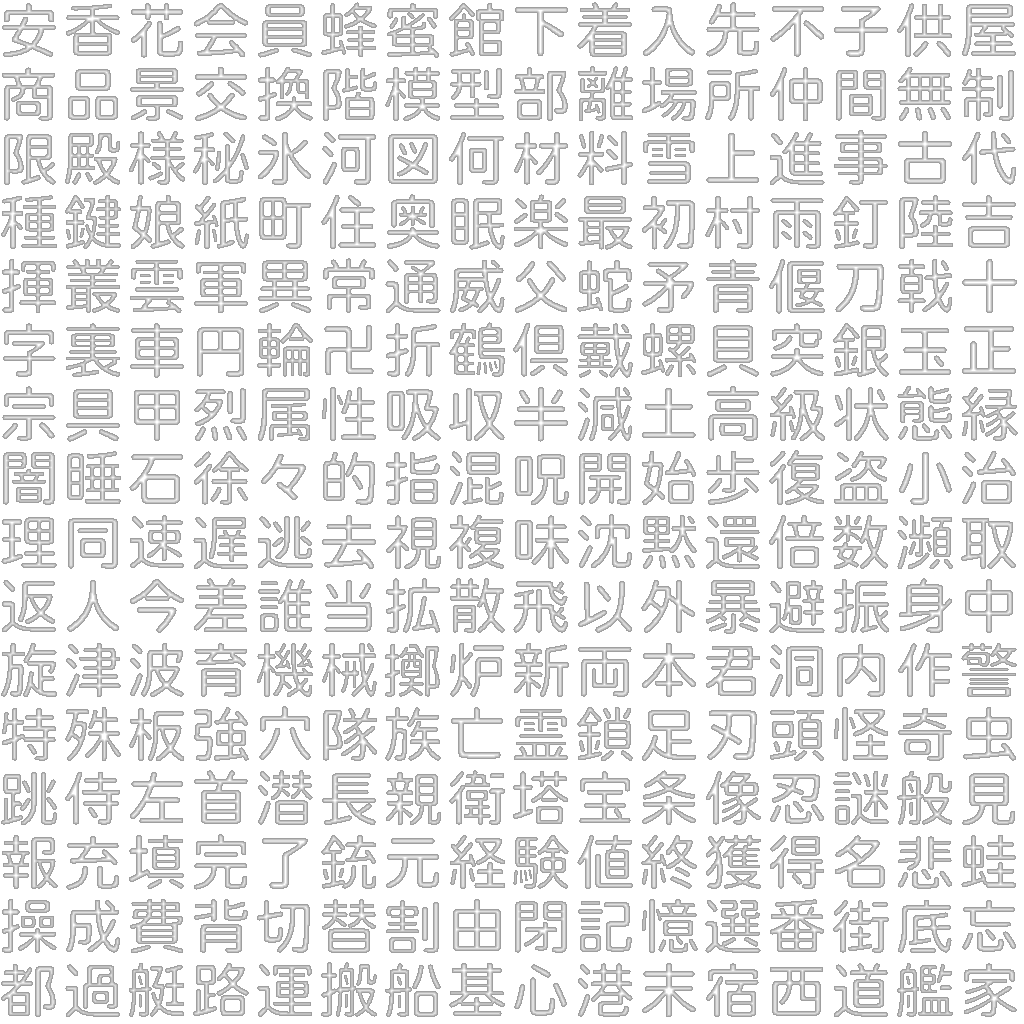
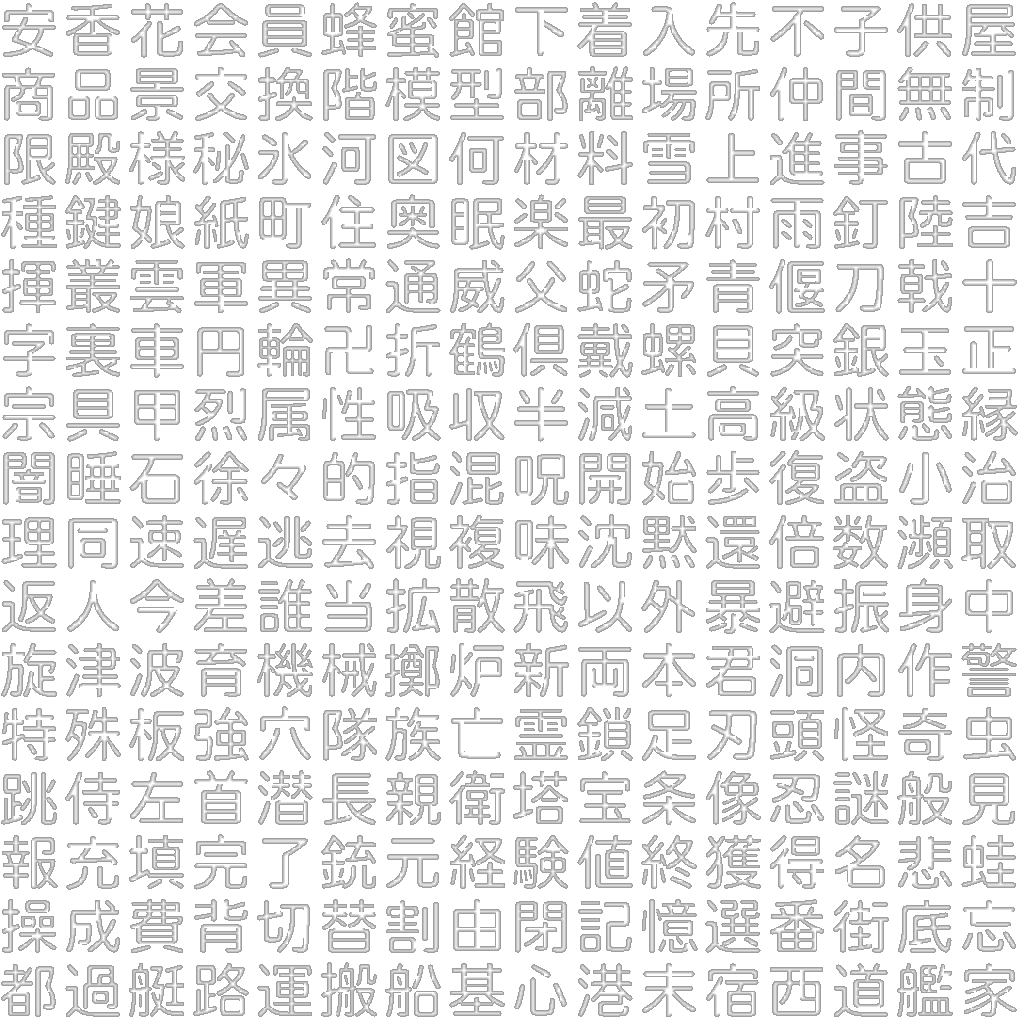
fix(sdf-font): correct SDF normalization to enable boldness control
CRITICAL FIX: Previous SDFs maxed at 177/255, providing no data for bold.

Changed normalization from:
  sdf_normalized = 0.5 + (sdf / (2.0 * distance_range))
To:
  sdf_normalized = 0.5 + (sdf / distance_range)

This allows SDF values to reach 200-255 deep inside glyphs, providing:
✅ Full gradient data for thickness adjustment
✅ Ability to make text bolder (not just thinner)
✅ Proper SDF with full 0-255 range utilization

Regenerated all 6 Japanese font SDFs with correct normalization.

Session: 1a021af6-6736-45cb-9669-eeb60f2a2030

🤖 Generated with [Claude Code](https://claude.com/claude-code)

diff --git a/sdf_font/atlas_to_sdf_optimized.py b/sdf_font/atlas_to_sdf_optimized.py
@@ -22,9 +22,11 @@ def bitmap_to_sdf_single(img_array, distance_range):
     
     # Combine
     sdf = dist_inside - dist_outside
-    
+
     # Normalize to [0, 1] with distance range
-    sdf_normalized = 0.5 + (sdf / (2.0 * distance_range))
+    # Use the full distance range for normalization to get proper gradient
+    # This allows values to reach 255 deep inside glyphs
+    sdf_normalized = 0.5 + (sdf / distance_range)
     sdf_normalized = np.clip(sdf_normalized, 0.0, 1.0)
     
     return sdf_normalized
